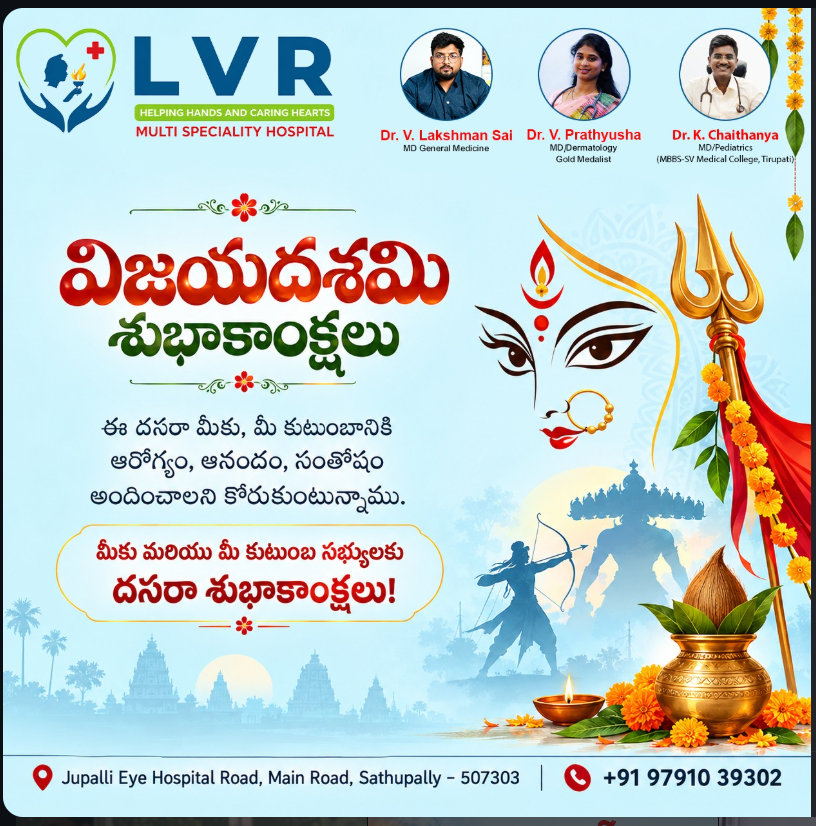
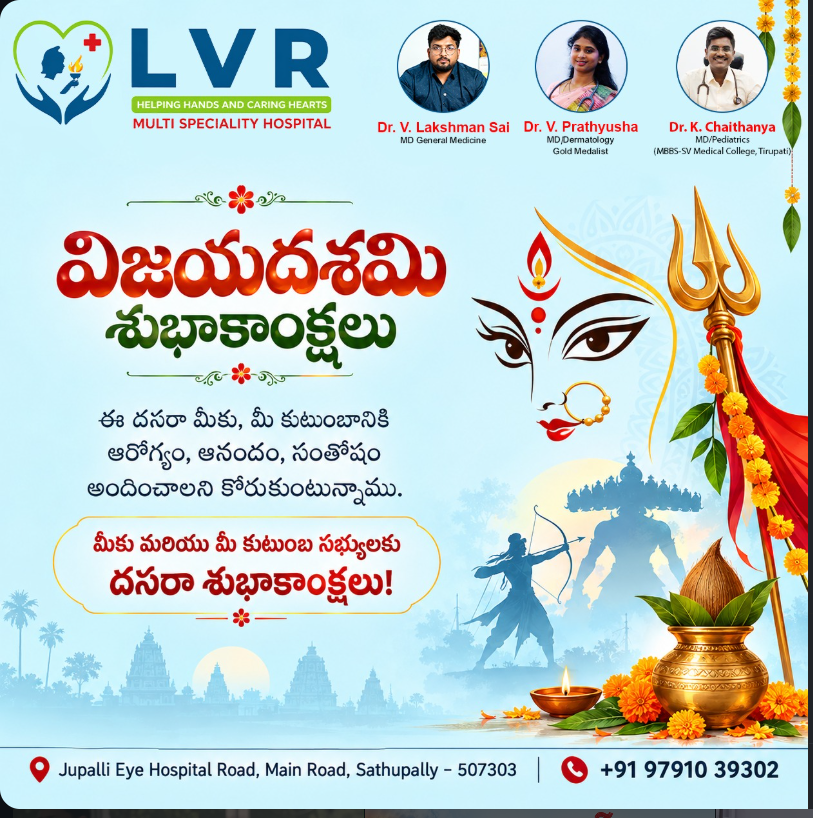
Remove black border from Dussehra greeting poster

diff --git a/src/components/dussehra-wishes.tsx b/src/components/dussehra-wishes.tsx
@@ -27,8 +27,8 @@ export function DussehraWishes() {
           className="dussehra-poster"
           src="/media/festivals/lvr-dussehra-2026.png"
           alt="Dussehra greetings from LVR Multi Speciality Hospital and doctors Dr. V. Lakshman Sai, Dr. V. Prathyusha and Dr. K. Chaithanya"
-          width={816}
-          height={810}
+          width={813}
+          height={818}
           priority
           sizes="(max-width: 720px) calc(100vw - 24px), 720px"
         />
